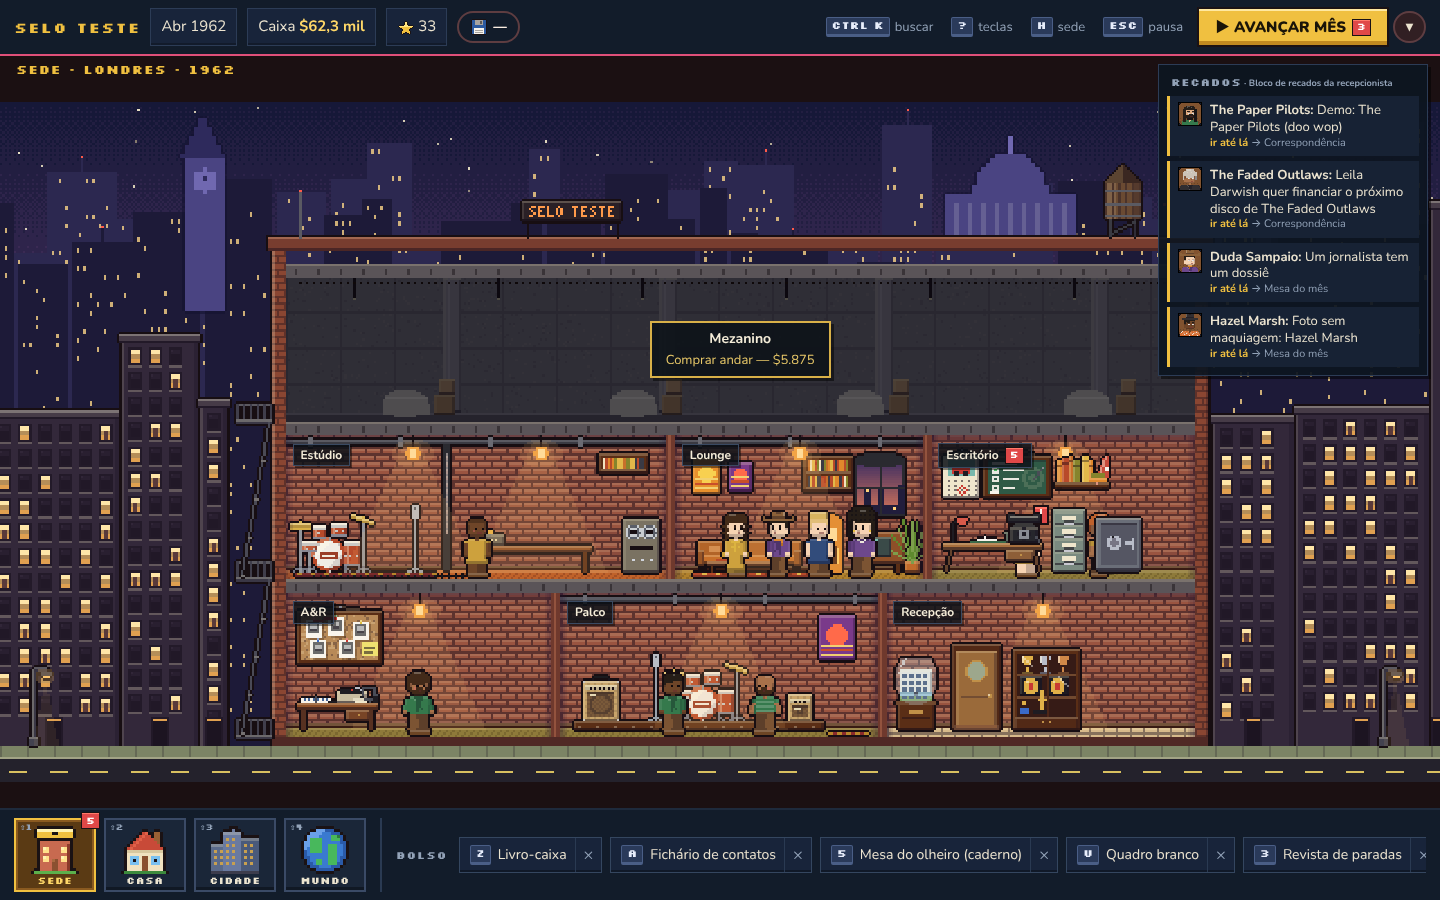
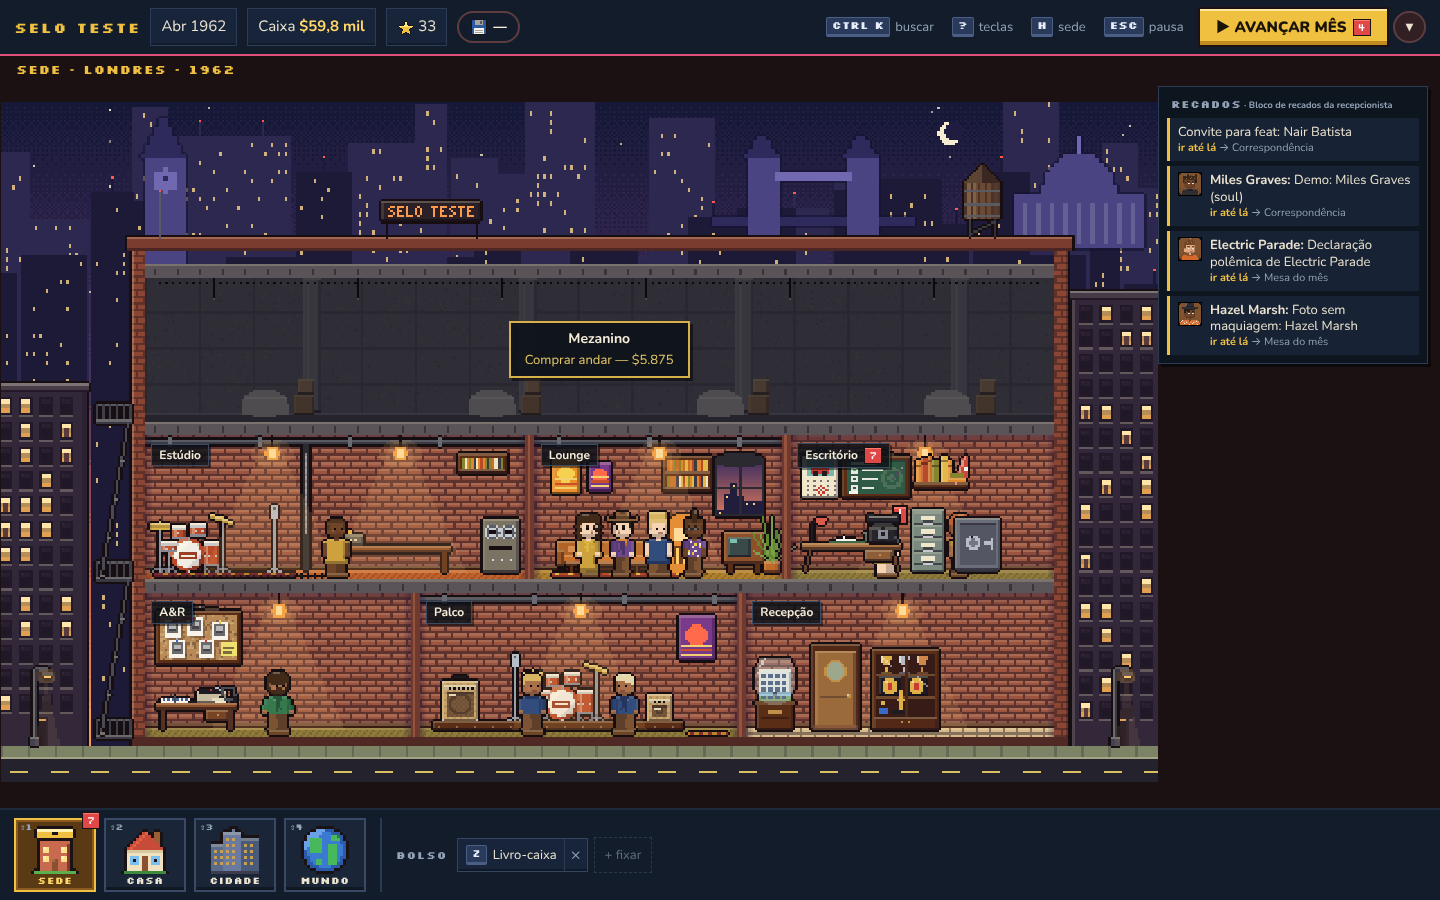
R31 onda 5 NAV: polimento (lista da sala, flash do ir até lá, marcadores sem repetir, teclas nas Opções) + DECISOES
Claude-Session: https://claude.ai/code/session_011XM6gk992aeaeJ7tjK8svn

diff --git a/src/ui/r31/shell5.css b/src/ui/r31/shell5.css
@@ -11,7 +11,7 @@
 .k5 { display: inline-block; min-width: 1.5em; padding: 0 5px; border: 1px solid #4a5e86; border-bottom-width: 3px; border-radius: 2px; background: var(--c5-key, #2a3a5a);
   color: #e8eefc; font: 700 11px/1.45 var(--pixel, monospace); text-align: center; letter-spacing: 0.02em; white-space: nowrap; }
 .bg5 { display: inline-grid; place-items: center; min-width: 17px; height: 17px; padding: 0 4px; border: 1px solid #1a1214; background: var(--c5-red, #e04848); color: #fff;
-  font: 700 10px/1 var(--pixel, monospace); font-style: normal; box-shadow: inset 0 1px 0 #ff7a6a; }
+  font: 400 11px/1 var(--pixel, monospace); font-style: normal; box-shadow: inset 0 1px 0 #ff7a6a; }
 
 /* ---------------- topo */
 .t5 { display: flex; align-items: center; gap: 10px; padding: 0 14px; background: var(--c5-bar); border-bottom: 2px solid var(--c5-pink); min-width: 0; }
@@ -57,11 +57,16 @@
 .s5-obj:hover .s5-lab, .s5-obj:focus-visible .s5-lab, body.alt5 .s5-lab { display: inline-flex; }
 body.alt5 .s5-obj .s5-lab { z-index: 2; }
 .s5-roomw { position: absolute; z-index: 4; }
+.s5-roomw:focus-within { z-index: 7; }
 .s5-room { display: inline-flex; align-items: center; gap: 6px; padding: 3px 7px; border: 1px solid #3a4a62; background: rgba(13, 18, 24, 0.86); color: #f4ecd8;
   font: 600 12px/1.2 var(--sans, sans-serif); box-shadow: 2px 2px 0 rgba(0,0,0,.45); }
 .s5-room:hover, .s5-room:focus-visible { border-color: var(--c5-gold, #f0c040); }
+.s5-room.flash { border-color: var(--c5-gold, #f0c040); box-shadow: 0 0 0 2px var(--c5-gold, #f0c040), 2px 2px 0 rgba(0,0,0,.45); animation: s5-flash 0.9s steps(2) 5; }
 .s5-pop { position: absolute; left: 0; top: calc(100% + 3px); min-width: 230px; display: flex; flex-direction: column; gap: 2px; padding: 8px; background: #0d1218; border: 2px solid var(--c5-gold, #f0c040);
   color: #f4ecd8; font-size: 13px; box-shadow: 3px 3px 0 rgba(0,0,0,.55); z-index: 6; }
+.s5-pop { max-height: min(60vh, 520px); overflow: auto; }
+.s5-pop.up { top: auto; bottom: calc(100% + 3px); }
+.s5-pop.left { left: auto; right: 0; }
 .s5-pop[hidden] { display: none; }
 .s5-pop > b { color: var(--c5-gold, #f0c040); margin-bottom: 4px; }
 .s5-pop > small { color: #93a3b8; margin-top: 4px; }
@@ -94,7 +99,7 @@ body.alt5 .s5-obj .s5-lab { z-index: 2; }
 .p5 { position: absolute; inset: 10px 12px; z-index: 8; }
 .p5-cv { position: absolute; inset: 0; width: 100%; height: 100%; image-rendering: pixelated; }
 .p5-head { position: absolute; display: flex; align-items: center; gap: 12px; min-width: 0; color: #1e1a16; }
-.p5-t { margin: 0; color: inherit; font: 700 18px/1 var(--pixel, monospace); letter-spacing: 0.06em; text-transform: uppercase; white-space: nowrap; }
+.p5 .p5-head .p5-t { margin: 0; color: inherit !important; font: 700 18px/1 var(--pixel, monospace); letter-spacing: 0.06em; text-transform: uppercase; white-space: nowrap; }
 .p5-sub { font: 600 11px/1.2 var(--pixel, monospace); opacity: 0.75; white-space: nowrap; overflow: hidden; text-overflow: ellipsis; }
 .p5-charts .p5-head, .p5-cork .p5-head, .p5-inbox .p5-head, .p5-ledger .p5-head, .p5-agenda .p5-head, .p5-rolodex .p5-head { color: #fff4dc; text-shadow: 1px 1px 0 #000; }
 .p5-pin, .p5-x { display: inline-flex; align-items: center; gap: 5px; padding: 3px 8px; border: 1px solid rgba(0,0,0,.4); background: rgba(255,255,255,.75); color: #1e1a16; font-size: 12px; white-space: nowrap; }
@@ -119,13 +124,13 @@ body.alt5 .s5-obj .s5-lab { z-index: 2; }
 .b5-tr:hover, .b5-tr:focus-visible { border-color: #6a7ea6; }
 .b5-tr.on { border-color: var(--c5-gold); background: #5a3a14; box-shadow: inset 0 0 0 2px #8a5a20; }
 .b5-tr.on span { color: var(--c5-gold2); }
-.b5-pocket { display: flex; align-items: center; gap: 8px; min-width: 0; overflow-x: auto; scrollbar-width: thin; }
+.b5-pocket { display: flex; align-items: center; gap: 6px; min-width: 0; overflow-x: auto; scrollbar-width: thin; }
 .b5-pl { font: 700 11px/1 var(--pixel, monospace); color: var(--c5-mut); letter-spacing: 0.08em; text-transform: uppercase; margin-right: 4px; }
 .b5-pi { display: inline-flex; align-items: stretch; border: 1px solid #34465f; background: #18243a; box-shadow: inset 0 -2px 0 rgba(0,0,0,.3); }
 .b5-pi.on { border-color: var(--c5-gold); }
 .b5-pi.on .b5-pb { color: var(--c5-gold2); }
-.b5-pb { display: inline-flex; align-items: center; gap: 7px; padding: 7px 8px 7px 10px; border: 0; background: none; font-size: 14px; white-space: nowrap; }
-.b5-px { padding: 0 8px; border: 0; border-left: 1px solid #2a3a52; background: none; color: var(--c5-mut); }
+.b5-pb { display: inline-flex; align-items: center; gap: 6px; max-width: 190px; overflow: hidden; text-overflow: ellipsis; padding: 6px 7px 6px 8px; border: 0; background: none; font-size: 13px; white-space: nowrap; }
+.b5-px { padding: 0 6px; border: 0; border-left: 1px solid #2a3a52; background: none; color: var(--c5-mut); }
 .b5-px:hover { color: #fff; background: #3a2030; }
 .b5-pin { padding: 8px 10px; border: 1px dashed #3a4c66; background: none; color: var(--c5-mut); font-size: 13px; white-space: nowrap; }
 .b5-pin:not(:disabled):hover { border-color: var(--c5-gold); color: var(--c5-ink); }

diff --git a/src/ui/r31/shell5.ts b/src/ui/r31/shell5.ts
@@ -18,6 +18,7 @@ import { portraitCanvas } from '../pixel/avatar';
 import { travel5Canvas } from '../pixel/exp5px';
 import { inbox5Layout, inbox5Look, inbox5Px, paper5Canvas, paper5Layout, paper5Px, type Paper5, type Rect5 } from '../pixel/exp5paper';
 import { TABS_REG27 } from '../ps/tabsreg27';
+import { REDIRECT29 } from '../ps/route29model';
 import { store } from '../store';
 import { setTab } from '../vis';
 import { CAREER_PAGE17 } from '../nav17';
@@ -105,6 +106,8 @@ export function travel5go(r: Region5): void {
 /** Esc: fecha a ajuda, a pausa ou o papel; sem nada aberto, abre a pausa. */
 export function esc5(): void {
   if (SH5.rebind) { SH5.rebind = undefined; redraw(); return; }
+  const pops = typeof document !== 'undefined' ? [...document.querySelectorAll<HTMLElement>('.s5-pop:not([hidden])')] : [];
+  if (pops.length) { for (const x of pops) x.hidden = true; return; } // lista da sala aberta: Esc só fecha a lista
   if (SH5.help) { SH5.help = false; redraw(); return; }
   if (SH5.pause) { SH5.pause = false; redraw(); return; }
   if (SH5.paper) { closePaper5(); return; }
@@ -127,9 +130,11 @@ export function markers5(id: string, cur?: Open5): Open5[] {
   if (cur && !out.some((m) => sameMark(m, cur))) out.unshift(cur);
   // mesma página/aba por dois caminhos (ex.: 'inbox' e cockpit › Caixa de entrada): um marcador só
   const seen = new Set<string>();
-  return out.filter((m) => { const k = `${m.area}|${m.tab?.join('/') ?? ''}`; if (seen.has(k)) return false; seen.add(k); return true; });
+  return out.map(norm5).filter((m) => { const k = `${m.area}|${m.tab?.join('/') ?? ''}`; if (seen.has(k)) return false; seen.add(k); return true; });
 }
-const sameMark = (a: Open5, b: Open5): boolean => a.area === b.area && (!a.tab || !b.tab || (a.tab[0] === b.tab[0] && a.tab[1] === b.tab[1]));
+/** Nome antigo (REDIRECT29: 'inbox', 'desk'…) → a página e a aba de verdade. */
+const norm5 = (m: Open5): Open5 => { const r = REDIRECT29[m.area]; return r?.area ? { area: r.area, tab: r.tab ?? m.tab } : m; };
+const sameMark = (a0: Open5, b0: Open5): boolean => { const a = norm5(a0), b = norm5(b0); return a.area === b.area && (!a.tab || !b.tab || (a.tab[0] === b.tab[0] && a.tab[1] === b.tab[1])); };
 
 /** { e }: marcador anterior/seguinte do papel aberto. */
 export function markerStep5(d: number): boolean {
@@ -289,7 +294,7 @@ function region5(s: GameState, host: Shell5Host, bangs: Record<string, number>):
     try { el = reg({ s, region: r, open: (id, m) => open5(id, m), goto: (x) => goto5(s, x), travel: travel5go, rerender: redraw, bangs, old }); } catch (e) { console.error('[nav5] região', r, e); el = null; }
   }
   return h('div', { class: `reg5 reg5-${r}` }, el ?? h('div', { class: 'reg5-old page21-host' },
-    h('div', { class: 's5-where' }, h('b', null, tl5(REGION_L5[r])), ` · ${t(l('a cena nova chega com a frente do mapa; por enquanto, a página de hoje', 'the new scene arrives with the map front; for now, today\'s page'))}`),
+    h('div', { class: 's5-where' }, h('b', null, tl5(REGION_L5[r])), ` · ${s.year}`),
     old()));
 }
 

diff --git a/src/ui/r31/sede5.ts b/src/ui/r31/sede5.ts
@@ -198,7 +198,7 @@ function objBtn(pl: Plan27, it: Item5, n: number, year: number, k: number, on: (
 }
 
 /** Selo da sala: nome, quantos objetos e "!"; abre a lista da sala (tudo da sala, inclusive o que não coube no desenho). */
-function roomChip(pl: Plan27, r: Room5, bangs: Record<string, number>, on: (id: string) => void): HTMLElement {
+function roomChip(pl: Plan27, r: Room5, bangs: Record<string, number>, on: (id: string) => void, flash?: string): HTMLElement {
   const n = r.objs.reduce((a, id) => a + (bangs[id] ?? 0), 0);
   const name = tl5(ROOM_L5[r.kind] ?? l('Sala', 'Room'));
   const list = h('div', { class: 's5-pop', role: 'menu', hidden: true },
@@ -206,8 +206,9 @@ function roomChip(pl: Plan27, r: Room5, bangs: Record<string, number>, on: (id: 
     ...r.objs.map((id) => h('button', { type: 'button', role: 'menuitem', class: 's5-pop-i', onclick: () => on(id) },
       h('span', null, txt5(tl5(object5(id)!.label))), bangs[id] ? raw5('i', 'bg5', String(bangs[id])) : null, kbd5(keyOf5(id)))),
     h('small', null, t(l('Clique num objeto ou use a tecla.', 'Click an object or use its key.'))));
-  const btn = h('button', { type: 'button', class: 's5-room', 'aria-haspopup': 'menu', 'data-room': r.kind,
-    onclick: (e: Event) => { e.stopPropagation(); const was = !list.hidden; document.querySelectorAll<HTMLElement>('.s5-pop').forEach((x) => { x.hidden = true; }); list.hidden = was; } },
+  const lit = !!flash && r.objs.includes(flash);
+  const btn = h('button', { type: 'button', class: `s5-room${lit ? ' flash' : ''}`, 'aria-haspopup': 'menu', 'data-room': r.kind,
+    onclick: (e: Event) => { e.stopPropagation(); const was = !list.hidden; document.querySelectorAll<HTMLElement>('.s5-pop').forEach((x) => { x.hidden = true; }); list.hidden = was; if (!was) { const r = (e.currentTarget as HTMLElement).getBoundingClientRect(); list.classList.toggle('up', r.top > (window.innerHeight || 800) * 0.4); list.classList.toggle('left', r.left > (window.innerWidth || 1280) * 0.6); (list.querySelector('button') as HTMLElement | null)?.focus(); } } },
     name, n ? raw5('i', 'bg5', String(n)) : null);
   return h('div', { class: 's5-roomw', style: `left:${pct(r.cell.x + 3, pl.W)};top:${pct(r.cell.y + 3, pl.H)}` }, btn, list);
 }
@@ -281,7 +282,7 @@ export function sedeScene5(o: SedeIn5): HTMLElement {
     stage.style.height = `${Math.round(d.plan.H * k)}px`;
     layer.replaceChildren(
       ...lay.items.map((it) => objBtn(d.plan, it, o.bangs[it.id] ?? 0, s.year, Math.ceil(k), o.open, o.flash === it.id)),
-      ...lay.rooms.map((r) => roomChip(d.plan, r, o.bangs, o.open)),
+      ...lay.rooms.map((r) => roomChip(d.plan, r, o.bangs, o.open, lay.items.some((x) => x.id === o.flash) ? undefined : o.flash)),
       ...lockChips(s, d.plan, m.units));
   };
   const size = () => ({ w: wrap.clientWidth || Math.max(640, (window.innerWidth || 1280) - 40), h: wrap.clientHeight || Math.max(360, (window.innerHeight || 800) - 170) });

diff --git a/src/ui/app.ts b/src/ui/app.ts
@@ -118,7 +118,7 @@ import './ps/ctx27'; // r27 (CTX): clique direito / toque longo / Shift+F10 em n
 import { LISTS31, LIST_TABS31, LKEY31, badges31, entryHome31, entryLabel31, find31, menu31, placeOf31, placesOf31, type Entry31, type EntryId31, type MenuCtx31 } from './ps/menu31';
 import { NAV5, TRANS5, keyNav5 } from './r31/nav5'; // R31 onda 5 (TEC): navegação nova atrás de exp5.nav (desligado = nada muda)
 import { chordLabel5 } from './r31/keys5';
-import { shell5, shell5On, shellKey5, show5, type Shell5Host } from './r31/shell5'; // R31 onda 5 (NAV): casca do jogo explorável (exp5.nav)
+import { help5, shell5, shell5On, shellKey5, show5, type Shell5Host } from './r31/shell5'; // R31 onda 5 (NAV): casca do jogo explorável (exp5.nav)
 import { TOPBAR31, fullMenu31, listHome31, listsHome31, nav31, placesStrip31, setFullMenu31, subnav31 } from './ps/menu31ui';
 import { pendingList } from '../sim/r31/pending';
 import { settingsTrn31, transition31, trnBack31, trnGate31 } from './r31/trn31'; // R31 onda 5 (TRN): transições entre telas
@@ -775,6 +775,7 @@ function settings(): void {
       h('button', { class: 'btn small ghost', onclick: () => { close(); openCampaign29(); } }, '⚑ ', t(l('Campanha', 'Campaign'))),
       h('button', { class: 'btn small ghost', onclick: () => { close(); openIndex29(); } }, '☰ ', t(l('Índice de todas as páginas', 'Index of every page'))),
       h('button', { class: 'btn small ghost', onclick: () => { close(); go('tut18'); } }, '? ', t(l('Ajuda', 'Help'))),
+      shell5On(store.game) ? h('button', { class: 'btn small ghost', onclick: () => { close(); help5(); } }, t(l('Teclas (trocar)', 'Keys (rebind)'))) : null, // R31 onda 5 (NAV): teclas configuráveis
       themeButton(() => render())),
     h('label', { class: 'check' }, h('input', { type: 'checkbox', checked: fullMenu31(), onchange: (e: Event) => { setFullMenu31((e.target as HTMLInputElement).checked); render(); } }),
       ' ', t(l('Menu completo: mostrar também a árvore com todas as páginas no menu lateral', 'Full menu: also show the tree with every page in the side menu'))),

diff --git a/docs/r31/DECISOES.md b/docs/r31/DECISOES.md
@@ -322,3 +322,13 @@ Cada linha: data · onda · decisão (o que substituiu o quê) · motivo · valo
   - Registros são só de interface (nada de estado novo); quem registra importa o próprio arquivo em `app.ts` (uma linha `import './r31/<arquivo>'`) — NAV mantém essa lista.
 - 2026-10-16 · 31.4 BASE-IT · Exibição com nomes reais desligados (r31-x-sweep): a proteção da família (`FAMILY_GUARD31`, src/data/realdisp31.ts) pulava QUALQUER nome real que contivesse Lucia/Antonella/Gianluca/Sonia/Efro — Lucia Mannucci, Antonella Ruggiero e Gianluca Grignani vazavam. Agora protege só "Fossati" e os prenomes sozinhos; "Lucia Fossati" etc. seguem intactos. homage31: letra acentuada no caminho forçado ("Al di là") avança pela letra-base (antes a homenagem saía igual ao real); só muda homenagens que estavam quebradas. Só exibição: simulação e goldens iguais · teste r31-x-sweep, r17-data (lista de lotes no fim de REAL_ALL ganhou BASE31_IT) · teste alterado
 - 2026-10-16 · 31.4 PRED · ARTE PRÓPRIA POR TIPO DE PRÉDIO no mapa (pedido do dono): tipo de arte `Art31` (55 tipos, `ui/pixel/pred31.ts`) mais fino que o `BKind`, escolhido na interface a partir do lugar (place27 + loja da época BIZ31 + porte da casa do LOTE em `pred31place.ts`; vizinho; lugar real); `pred31px.ts` desenha silhueta, cores de parede/telhado e detalhes por tipo e por época dentro de `buildingSprite18` (`Spr27.art`, `SceneX27.fillArt`, `Extra31.art`). A simulação continua com o BKind (`DRAW27`/`RDRAW31` intactos) · antes: 19 lojas da época e a loja de discos/instrumentos na mesma carcaça `store`, rádio = TV, teatro = museu, hotel/delegacia = escritório · goldens iguais; inventário em docs/r31/pred.md
+- 2026-10-16 · 31.5 NAV (EXP-1/EXP-2) · CASCA DO JOGO EXPLORÁVEL atrás de `exp5.nav` (desligado = jogo de hoje, sem nenhuma diferença: `app.ts` só entra em `renderShell5` com o interruptor ligado). Arquivos: `ui/r31/shell5.ts` (+ `.css`; topo, barra de viagem, bolso, recados, papel, pausa, ajuda de teclas), `ui/r31/sede5.ts` (sede como centro), ganchos em `nav5.ts` (`NAV5.open`/`NAV5.travel`, `index5`, `reach5`) e `keys5.ts` (`rebind5`/`resetKeys5`). Decisões:
+  - **Sede = o mesmo corte de hoje (`drawHqCutaway27`)** com os objetos de `objects5` desenhados por `exp5px` na época; escritório, A&R, recepção e reunião ficam sem a mobília padrão (`bare`, opção nova e opcional de `hqpx27`) para nada ficar sobreposto; estúdio, palco, lounge e arquivo mantêm o desenho e ganham "pontos" clicáveis. O que não cabe no desenho fica na lista da sala (o selo da sala abre a lista com as teclas): todo objeto da sede a ≤ 2 cliques. Escala da cena em quartos (enche a tela como no mock).
+  - **Papel**: moldura `exp5paper` pelo `frame` do objeto (livro, caderno, quadro, revista, cortiça, agenda, fichário; caixa de entrada pela época; resto = ficha), marcadores = páginas donas + abas que vieram para o objeto (MOVES5), sem repetir (nomes antigos via REDIRECT29). Sem registro de PAPEL/ELENCO/CASA, o miolo é a página antiga (`panel()` de hoje) — nunca vazio. `{ }` trocam de marcador; Esc fecha.
+  - **Regiões**: Casa/Cidade/Mundo mostram o registro de CASA/MAPA ou a página de hoje da região (`travelTarget5`).
+  - **Teclas**: com o interruptor ligado só vale o mapa de `keys5` (KEY17 e Shift+1…6 antigos não disparam); Esc fecha lista da sala › ajuda › pausa › papel, sem nada abre a pausa; Tab = chaveiro (2+ carreiras); Alt segurado mostra todos os nomes (rótulos empurrados para não se cobrirem); Ctrl+S salva; campos de texto não perdem teclas (só Esc passa). Troca de teclas na ajuda (`?` › "trocar") e em Opções › "Teclas (trocar)": preferência do navegador `vtn:keys5`, nunca estado do jogo; conflitos/reservadas recusados por `checkRebind5`.
+  - **Pausa**: menu do mock + índice completo ao lado (filtro): toda página antiga a 2 cliques (botão Esc pausa › linha do índice).
+  - **Recados**: a secretária da época (bloco/secretária/celular) lista as 4 pendências mais urgentes com o retrato de quem pede; "ir até lá" abre o objeto dono e acende o "!" (o objeto, ou o selo da sala quando ele está só na lista).
+  - **Transições**: `TRANS5.run` ligado a `transition31` (TRN): viagem com cortina e cartão do destino; clique num objeto da cena = zoom + papel sobe; tecla, bolso e "ir até lá" abrem direto; fechar = papel desce. Com a casca ligada, o portão antigo (`trnGate31`) não roda.
+  - Achado (fora do escopo, não corrigido): `t()` aplica a troca de nomes reais (`realText`) a todo texto; um ato fictício chamado "Telefone"/"5" faz rótulos de interface virarem nomes reais ("Teliel", "10"). A casca usa `tl5`/`txt5` (texto direto) nos rótulos dela.
+  - Provas: `tests/r31-nav5.test.ts` (desligado = igual; toda tecla abre o objeto certo; alcance ≤ 2 cliques ou 1 tecla; nada sobreposto na sede; explorar não muda o estado) e `docs/r31/shots/onda5-nav-*.png` (`scripts/shots31nav5.mjs`) · goldens iguais.
